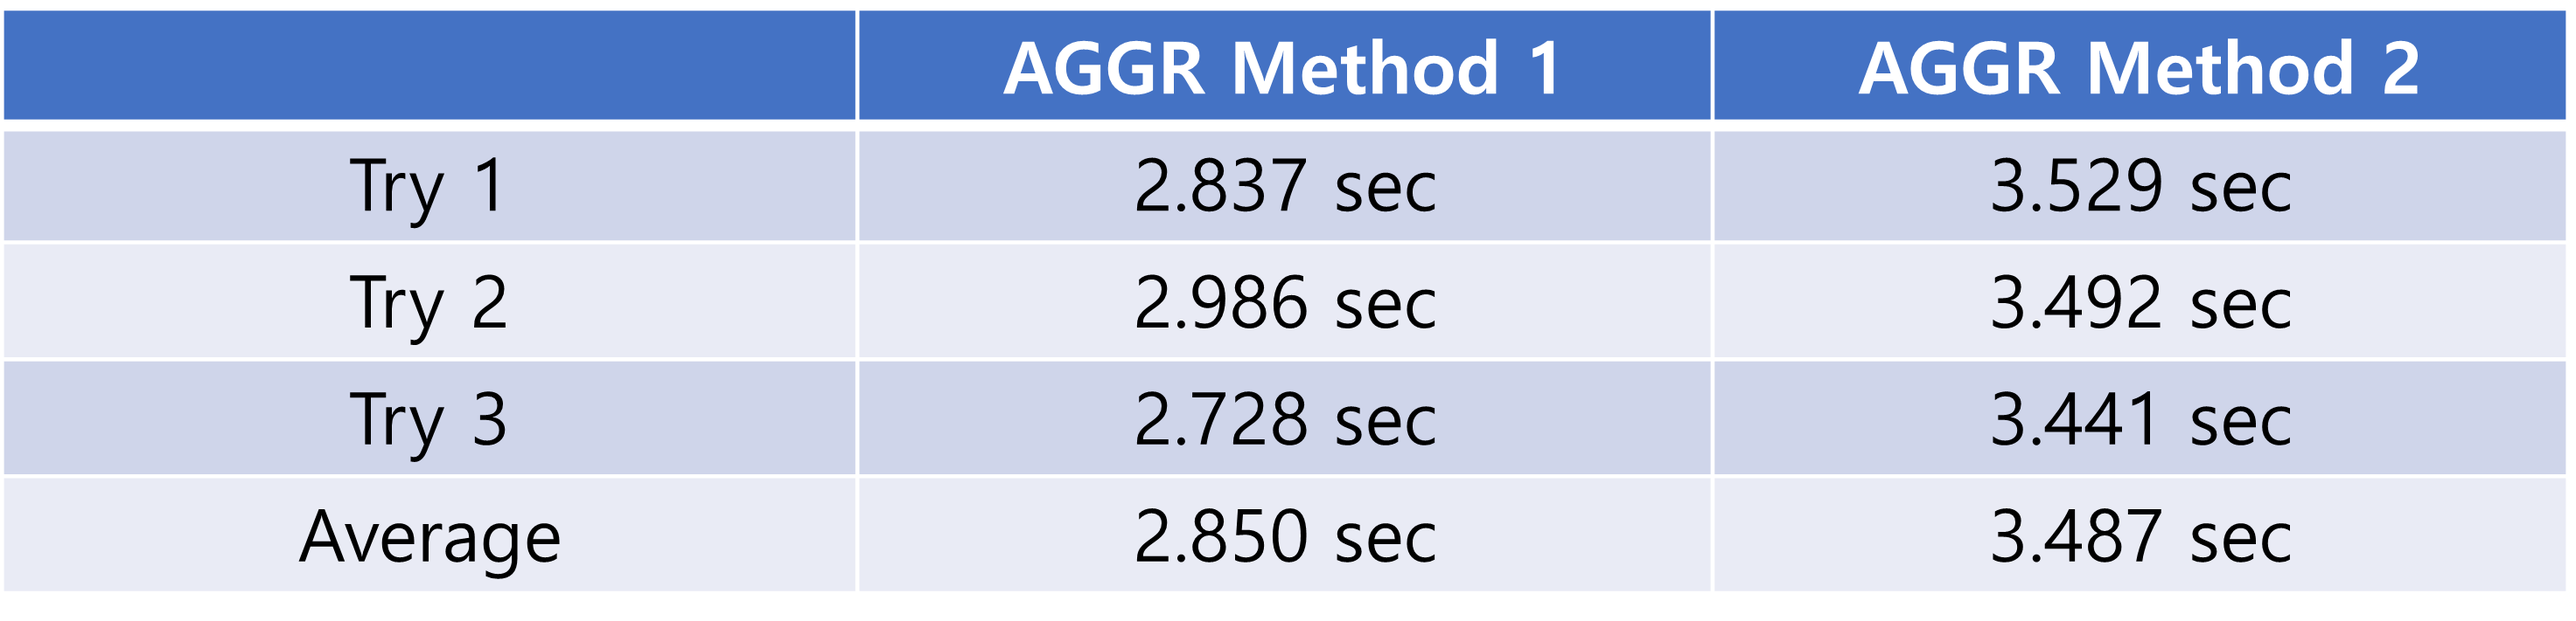
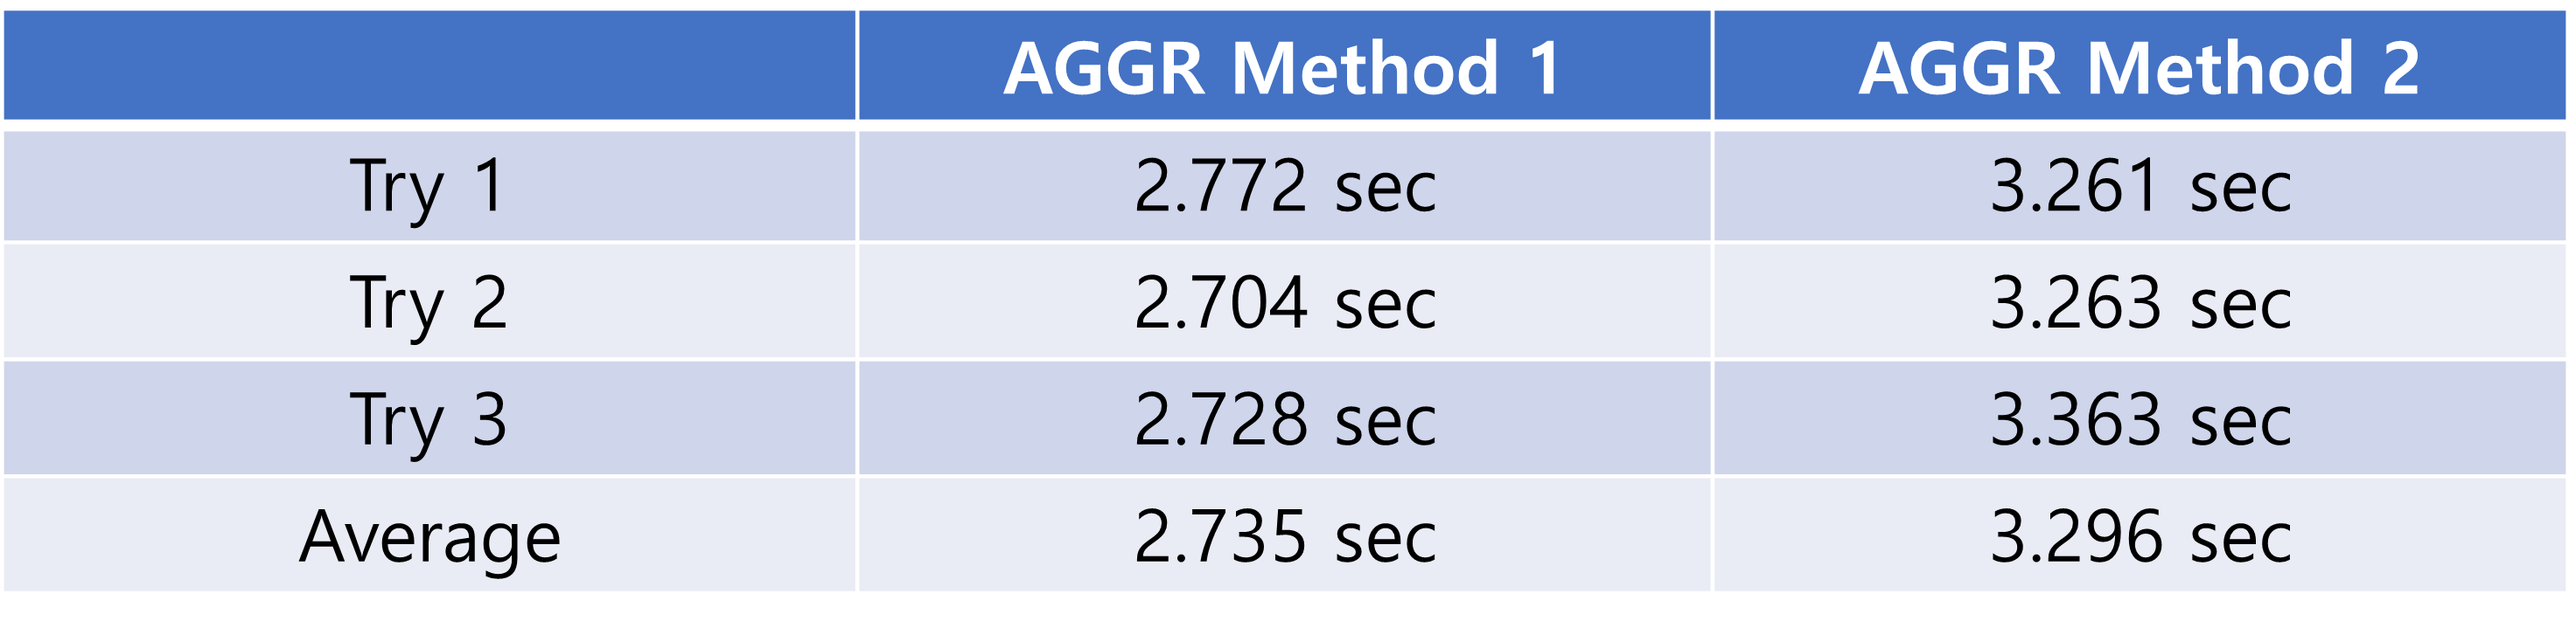
.

diff --git a/_posts/2024-11-01-cache_miss_in_multithreading.md b/_posts/2024-11-01-cache_miss_in_multithreading.md
@@ -31,7 +31,9 @@ L1 캐시는 코어 칩 내부에 위치하고 있고 명령어 캐시와 데이
 
 **명령어 집합**은 똑같은 명령어가 계속 반복해서 나타날 경향이 커 주로 시간 지역성이 높고 **데이터 집합**은 주로 공간 지역성이 높게 나타날 가능성이 크다.
 
-이 둘을 나누어 관리하면 서로 다른 지역성을 활용할 수 있고 별도의 파이프라인을 구축해 명령어와 데이터를 동시에 읽을 수도 있다. 이러한 장점을 취하기 위해 L1 캐시는 명령어 집합과 데이터 집합을 분리해 관리해준다. 대신, 그만큼 활용하지 못하는 공간이 생길 수 있으니 캐시 메모리 용량 측면에서는 손해이다.
+이 둘을 나누어 관리하면 서로 다른 지역성을 활용할 수 있고 별도의 파이프라인을 구축해 명령어와 데이터를 동시에 읽을 수도 있다.
+
+이러한 장점을 취하기 위해 L1 캐시는 명령어 집합과 데이터 집합을 분리해 관리해준다. 대신, 그만큼 활용하지 못하는 공간이 생길 수 있으니 캐시 메모리 용량 측면에서는 손해이다.
 
 ### L2 캐시
 L2 캐시는 CPU에 따라 코어 내에 위치할 수도, 코어 밖에 위치할 수도 있다. L2 캐시를 코어 간에 공유자원으로 사용하는 경우도 있다.
@@ -47,14 +49,14 @@ L3 캐시는 코어 밖에 위치해 코어 간에 서로 공유해서 사용하
 
 어떻게 배열을 나누어 각 코어가 하는 일을 분배해야 할까? 여러 방법이 있겠지만, 일단 두 가지만 비교하자면
 1. 크기가 100인 배열이 있고 코어의 개수는 2개라고 하면, 0~49번 idx의 배열과, 50~99번 idx 배열로 나누어 합 연산을 수행한다.
-2. 마찬가지로, 크기가 100인 배열과 코어가 2개 있다고 하면, 짝수 idx를 0번 코어에서, 홀수 idx는 1번 코어에서 처리하게 하는 것이다.
+2. 마찬가지로, 크기가 100인 배열과 코어가 2개 있다고 하면, 짝수 idx를 0번 코어에서, 홀수 idx는 1번 코어에서 처리한다.
 
-이미 결론을 다 말한 것 같지만, **1번**이 더 유리할 것이다. L3 캐시에 올라가게 되는 데이터의 cache hit은 **2번**이 더 유리할 수 있지만, L1 캐시와 L2 캐시에 올라가는 데이터의 cache hit은 **1번**이 절대적으로 유리하다.
+이미 결론을 다 말한 것 같지만, **1번**이 더 유리할 것이다. L3 캐시에 올라가게 되는 데이터의 캐시 적중률은 **2번**이 더 유리할 수도 있지만, L1 캐시와 L2 캐시에 올라가는 데이터의 캐시 적중률은 **1번**이 더 유리하다.
 
-trade-off 관계가 존재하지만, **1번**을 선택하는 것이 더 나은 선택이다. (사실 이런 점을 고려하지 않아도 굳이 **2번** 방식을 채택하는 경우를 본 적도 없다.)
+trade-off 관계가 존재하지만, **1번**을 선택하는 것이 더 나은 선택이다. (사실 이런 점을 고려하지 않아도 굳이 **2번** 방식을 채택하는 경우를 본 적은 없다.)
 
 ## 얼마나 차이가 났을까?
-크다면 큰 차이이고, 작다면 작은 차이지만 18.3% 정도의 차이로 **1번** 방식이 빨랐다. 실험 결과는 아래와 같다.
+크다면 큰 차이이고, 작다면 작은 차이지만 17% 정도의 차이로 **1번** 방식이 빨랐다. 실험 결과는 아래와 같다.
 
 - 실험 환경
     - Compiler: MinGW 11.0 w64
@@ -68,9 +70,7 @@ trade-off 관계가 존재하지만, **1번**을 선택하는 것이 더 나은 
 
 ![expr_result](/images/2024-11-01-cache_miss_in_multithreading/expr_result.png)
 
-다만, 위 실험 결과는 **long long** 자료형을 사용하였을 때의 결과이다.
-
-자료형을 **int**로만 바꾸어주어도 캐시 적중률이 거의 동일해 유의미한 속도 차이를 보여주지 않는다.
+다만, 위 실험 결과는 **long long** 자료형을 사용하였을 때의 결과이다. 자료형을 **int**로만 바꾸어주어도 캐시 적중률이 거의 동일해 유의미한 속도 차이를 보여주지 않는다.
 
 ## Appendix (Source Code)
 ### Common Part
@@ -107,7 +107,7 @@ void *parallel_sum(void *arg) {
 ```c
 int main() {
     srand(time(NULL));
-    dtype *nums = malloc(ARR_SIZE * sizeof(dtype)); // 힙 영역에 배열 선언
+    dtype *nums = malloc(ARR_SIZE * sizeof(dtype));
     if(nums == NULL) {
         perror("malloc");
         exit(-1);
@@ -121,14 +121,16 @@ int main() {
     pthread_t threads[NUM_THREADS];
     ThreadData thread_data[NUM_THREADS];
 
-    const clock_t start = clock();
     for(int i = 0; i < NUM_THREADS; i++) {
-        thread_data[i].nums = nums; // 각 쓰레드에 배열의 포인터만 넘겨서 연산
+        thread_data[i].nums = nums;
         thread_data[i].step = 1;
-        thread_data[i].start_idx = i * chunk_size; // 쓰레드 개수를 통해 배열 연산 범위 지정
+        thread_data[i].start_idx = i * chunk_size;
         thread_data[i].end_idx = (i == NUM_THREADS - 1) ? ARR_SIZE : (i + 1) * chunk_size;
         thread_data[i].sum = 0;
+    }
 
+    const clock_t start = clock();
+    for(int i = 0; i < NUM_THREADS; i++) {
         if(pthread_create(&threads[i], NULL, parallel_sum, &thread_data[i])) {
             perror("pthread_create");
             exit(-1);
@@ -154,14 +156,14 @@ int main() {
 #### Result
 **Try 1**
 ```bash
-TOTAL SUM AGGR RESULT: 5040316172000
-SUM AGGR EXECUTION TIME: 2.837000
+TOTAL SUM AGGR RESULT: 5040129388928
+SUM AGGR EXECUTION TIME: 2.772000
 ```
 
 **Try 2**
 ```bash
-TOTAL SUM AGGR RESULT: 5040268586880
-SUM AGGR EXECUTION TIME: 2.986000
+TOTAL SUM AGGR RESULT: 5040108967152
+SUM AGGR EXECUTION TIME: 2.704000
 ```
 
 **Try 3**
@@ -174,7 +176,7 @@ SUM AGGR EXECUTION TIME: 2.728000
 ```c
 int main() {
     srand(time(NULL));
-    dtype *nums = malloc(ARR_SIZE * sizeof(dtype)); // 힙 영역에 배열 선언
+    dtype *nums = malloc(ARR_SIZE * sizeof(dtype));
     if(nums == NULL) {
         perror("malloc");
         exit(-1);
@@ -187,14 +189,16 @@ int main() {
     pthread_t threads[NUM_THREADS];
     ThreadData thread_data[NUM_THREADS];
 
-    const clock_t start = clock();
     for(int i = 0; i < NUM_THREADS; i++) {
-        thread_data[i].nums = nums; // 각 쓰레드에 배열의 포인터만 넘겨서 연산
-        thread_data[i].step = NUM_THREADS; // 쓰레드 개수만큼 건너뛰며 합 연산
+        thread_data[i].nums = nums;
+        thread_data[i].step = NUM_THREADS;
         thread_data[i].start_idx = i;
         thread_data[i].end_idx = ARR_SIZE;
         thread_data[i].sum = 0;
+    }
 
+    const clock_t start = clock();
+    for(int i = 0; i < NUM_THREADS; i++) {
         if(pthread_create(&threads[i], NULL, parallel_sum, &thread_data[i])) {
             perror("pthread_create");
             exit(-1);
@@ -220,20 +224,20 @@ int main() {
 #### Result
 **Try 1**
 ```bash
-TOTAL SUM AGGR RESULT: 5040306388592
-SUM AGGR EXECUTION TIME: 3.529000
+TOTAL SUM AGGR RESULT: 5040140662144
+SUM AGGR EXECUTION TIME: 3.261000
 ```
 
 **Try 2**
 ```bash
-TOTAL SUM AGGR RESULT: 5040129143344
-SUM AGGR EXECUTION TIME: 3.492000
+TOTAL SUM AGGR RESULT: 5040115655552
+SUM AGGR EXECUTION TIME: 3.263000
 ```
 
 **Try 3**
 ```bash
-TOTAL SUM AGGR RESULT: 5040085003856
-SUM AGGR EXECUTION TIME: 3.441000
+TOTAL SUM AGGR RESULT: 5040263545616
+SUM AGGR EXECUTION TIME: 3.363000
 ```
 
 ### 참고 문헌
